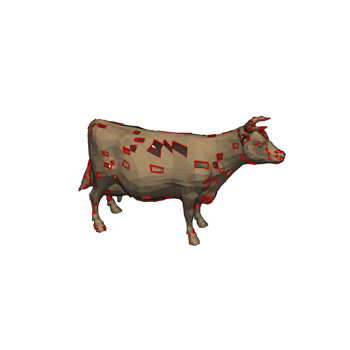
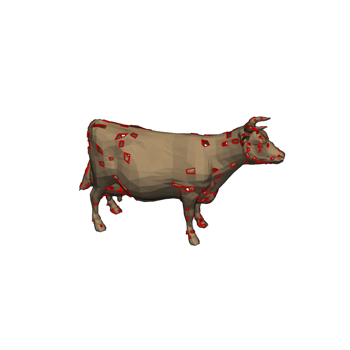
Update docs after building Travis build 86 of pyvista/pymeshfix
The docs were built from the branch 'master' against the commit
d8bb4e0ad93a92e9f489b860cbcf8b6f9eb6475c.

The Travis build that generated this commit is at
https://travis-ci.org/pyvista/pymeshfix/jobs/603597327.

The doctr command that was run is

    /home/travis/virtualenv/python3.7.1/bin/doctr deploy --built-docs ./docs/_build/html/ .

diff --git a/searchindex.js b/searchindex.js
@@ -1,1 +1,1 @@
-Search.setIndex({docnames:["api","examples/bunny","examples/cow","examples/index","examples/sg_execution_times","examples/torso","index"],envversion:{"sphinx.domains.c":1,"sphinx.domains.changeset":1,"sphinx.domains.cpp":1,"sphinx.domains.javascript":1,"sphinx.domains.math":2,"sphinx.domains.python":1,"sphinx.domains.rst":1,"sphinx.domains.std":1,sphinx:56},filenames:["api.rst","examples/bunny.rst","examples/cow.rst","examples/index.rst","examples/sg_execution_times.rst","examples/torso.rst","index.rst"],objects:{"pymeshfix.MeshFix":{extract_holes:[0,1,1,""],load_arrays:[0,1,1,""],mesh:[0,2,1,""],plot:[0,1,1,""],repair:[0,1,1,""],save:[0,1,1,""],write:[0,1,1,""]},pymeshfix:{MeshFix:[0,0,1,""],_meshfix:[0,3,0,"-"],meshfix:[0,3,0,"-"]}},objnames:{"0":["py","class","Python class"],"1":["py","method","Python method"],"2":["py","attribute","Python attribute"],"3":["py","module","Python module"]},objtypes:{"0":"py:class","1":"py:method","2":"py:attribute","3":"py:module"},terms:{"083e":5,"0x7f4788a01a08":2,"0x7f4788a01be8":5,"0x7f47892e4168":2,"320e":5,"442e":5,"446e":2,"624e":5,"637e":2,"680e":5,"696e":2,"701e":2,"720e":5,"760e":2,"998e":2,"case":6,"class":0,"default":0,"float":6,"import":[1,2,5,6],"new":0,"public":6,"return":[0,6],"true":[0,1,2,5],"while":6,FOR:6,One:6,The:6,There:6,Use:2,_meshfix:6,abov:6,absolut:5,access:[0,6],add:2,add_mesh:[1,2,5],addit:0,again:6,agreement:6,all:[0,6],allow:6,along:5,altern:6,ani:6,appi:5,approach:6,arg:0,argument:0,arrai:[0,2,5,6],ascii:0,assum:6,attempt:[0,6],atten:[0,6],author:6,award:6,base:[0,6],been:6,befor:0,begin:0,bell:6,better:6,binari:0,bool:0,both:0,bound:[2,5,6],boundari:[0,6],bring:6,bunni:[3,4],cad:6,camera:[1,2],camera_posit:[1,2,5],can:[0,6],cannot:6,cast:2,cell:[2,5],charact:0,check:6,cite:6,clean:[0,6],clean_from_arrai:6,clean_from_fil:6,click:[1,2,5],clone:6,close:6,cnr:6,coars:6,code:[1,2,5],color:[1,2,5],com:6,commerci:6,commun:6,complex:5,compon:[0,2,5,6],comput:6,contain:0,contract:6,control:6,copi:6,correct:6,could:6,cow:[3,4],cpo:[1,2,5],cpos_ear:5,creat:6,cython:[0,6],data:0,debug:0,defect:6,defin:1,degener:6,degeneraci:[1,2,5],deprec:[0,2],depth:[1,2,5],design:6,detail:6,digit:6,directli:6,disabl:0,disk:0,distribut:6,doi:6,download:[1,2,5],download_bunni:1,download_cow:2,download_torso:5,drive:6,dual:6,each:0,ear:5,eas:6,either:[0,6],element:6,emphas:5,enabl:0,enable_eye_dome_light:[1,2,5],ensur:5,even:6,exampl:[1,2,4,5],execut:4,extens:0,extract:[0,1,5],extract_geometri:2,extract_hol:[0,1,2,5],eye_dome_light:5,face:[0,6],fail:6,fals:0,faster:0,fclean:6,file:[0,4],filenam:0,filetyp:0,fill:6,fill_small_boundari:6,filter:5,fit:6,fix:[1,2,5],flaw:6,follow:[0,6],format:6,foundat:6,free:6,from:[0,1,2,5,6],ftype:0,full:[1,2,5],galleri:[1,2,3,5],gener:[1,2,3,5,6],git:6,github:6,gnu:6,gpl:6,hard:6,has:6,have:6,help:[1,2,5],here:[1,2,5,6],hole:[0,1,2,5,6],holei:[3,4],holy_cow:2,hope:6,how:6,http:6,idea:6,imati:6,impli:6,indic:0,infer:0,infil:6,inner_loop:6,inplac:0,input:6,instead:2,int32:6,interfac:0,intersect:[1,2,5,6],invert:2,ipynb:[1,2,5],isol:0,join:[0,6],join_closest_compon:6,joincomp:0,jupyt:[1,2,5],keyword:0,kwarg:0,largest:0,later:6,left:6,leverag:6,librari:6,licens:6,lightweight:6,line:0,line_width:[1,2,5],list:6,load:[0,6],load_arrai:[0,6],loadfil:6,locat:2,mai:[0,6],main:6,marco:[0,6],max_it:6,memori:6,merchant:6,mesh:[0,1,2,5,6],meshfix:[0,1,2,5,6],method:0,might:6,minut:[1,2,5],model:6,modifi:6,modul:[0,6],more:6,much:0,must:6,n_cell:2,nativ:6,ndarrai:0,nearbi:[0,6],necessari:6,need:5,nice:2,note:0,notebook:[1,2,5],numpi:[0,2,6],object:[0,6],occurr:6,one:0,open:0,option:[0,6],org:6,other:6,out:[1,2,5,6],outfil:6,outlin:[1,2,5],output:6,over:6,overridden:0,paper:6,paramet:0,part:[5,6],particular:6,patch:[1,2,5],percept:[1,2,5],perform:[0,6],perfrom:5,pip:6,pleas:6,plot:[0,1,2,5,6],plotter:[1,2,5],ply:[0,6],point:[0,2,5],polydata:[0,2,5],polygon:6,polyhedr:5,polyhedron:6,portabl:6,posit:1,present:6,print:[0,2,5,6],process:0,produc:6,program:6,proper:6,publish:6,purpos:6,pymeshfix:[0,1,2,5],pypi:6,python:[0,1,2,5,6],pytmesh:6,pyvista:[0,1,2,5,6],rand:2,random:2,raw:6,reach:6,read:6,readi:1,reason:6,redistribut:6,refer:6,region:6,remov:[0,2,5,6],remove_smallest_compon:0,render:[1,2],repair:[0,1,2,5,6],repres:6,requir:6,research:6,reserv:6,result:[2,6],return_arrai:6,right:6,root:2,run:[1,2,5,6],s00371:6,same:6,save:[0,6],save_fil:6,script:[1,2,5],second:[1,2,5],see:6,self:6,set:6,should:[0,6],show:[0,1,2,5],show_edg:5,show_hol:0,simpl:0,simpli:5,singl:6,singular:6,small:[2,5],softwar:6,solid:6,sort:6,sourc:[1,2,5,6],specif:6,specifi:0,speed:6,sphinx:[1,2,3,5],sphinx_gallery_thumbnail_numb:[1,2,5],springer:6,stl:0,str:0,string:0,subtl:5,surfac:[0,6],take:6,term:6,tessel:6,test:6,tetrahedr:0,than:0,thei:6,them:0,therefor:6,therein:6,thi:[0,5,6],three:0,threshold:2,thu:6,tight:5,time:[1,2,5],tin:6,tmesh:6,torso:[3,4],total:[1,2,4,5],tri_filt:[2,5],triangl:[0,5,6],triangul:2,triangular:0,txt:6,type:0,typic:6,unavail:6,under:6,understand:6,unless:0,unmodifi:6,updat:0,use:6,used:6,useful:6,user:6,uses:6,using:[0,6],vclean:6,verbos:[0,1,2,5],version:6,vertex:[0,6],view:6,visual:6,vtk:0,vtkinterfac:6,warn:2,warranti:6,water:5,watertight:6,where:[5,6],whistl:6,win:6,wish:6,with_vtk:6,within:6,wonder:6,work:6,wrap:0,wrapper:[0,6],write:[0,6],written:0,www:6,xyz:0,you:6,your:6},titles:["API Reference","Bunny","Holey Cow","Examples","Computation times","Torso","PyMeshFix"],titleterms:{algorithm:6,api:0,bunni:1,citat:6,complet:6,comput:4,copyright:6,cow:2,depend:6,easi:6,exampl:[3,6],holei:2,instal:6,polici:6,pymeshfix:6,refer:0,time:4,torso:5,vtk:6,without:6}})
+Search.setIndex({docnames:["api","examples/bunny","examples/cow","examples/index","examples/sg_execution_times","examples/torso","index"],envversion:{"sphinx.domains.c":1,"sphinx.domains.changeset":1,"sphinx.domains.cpp":1,"sphinx.domains.javascript":1,"sphinx.domains.math":2,"sphinx.domains.python":1,"sphinx.domains.rst":1,"sphinx.domains.std":1,sphinx:56},filenames:["api.rst","examples/bunny.rst","examples/cow.rst","examples/index.rst","examples/sg_execution_times.rst","examples/torso.rst","index.rst"],objects:{"pymeshfix.MeshFix":{extract_holes:[0,1,1,""],load_arrays:[0,1,1,""],mesh:[0,2,1,""],plot:[0,1,1,""],repair:[0,1,1,""],save:[0,1,1,""],write:[0,1,1,""]},pymeshfix:{MeshFix:[0,0,1,""],_meshfix:[0,3,0,"-"],meshfix:[0,3,0,"-"]}},objnames:{"0":["py","class","Python class"],"1":["py","method","Python method"],"2":["py","attribute","Python attribute"],"3":["py","module","Python module"]},objtypes:{"0":"py:class","1":"py:method","2":"py:attribute","3":"py:module"},terms:{"083e":5,"0x7efe1a8b08e8":5,"0x7efe1a8b0d08":2,"0x7efe1b14d048":2,"320e":5,"442e":5,"446e":2,"624e":5,"637e":2,"680e":5,"696e":2,"701e":2,"720e":5,"760e":2,"998e":2,"case":6,"class":0,"default":0,"float":6,"import":[1,2,5,6],"new":0,"public":6,"return":[0,6],"true":[0,1,2,5],"while":6,FOR:6,One:6,The:6,There:6,Use:2,_meshfix:6,abov:6,absolut:5,access:[0,6],add:2,add_mesh:[1,2,5],addit:0,again:6,agreement:6,all:[0,6],allow:6,along:5,altern:6,ani:6,appi:5,approach:6,arg:0,argument:0,arrai:[0,2,5,6],ascii:0,assum:6,attempt:[0,6],atten:[0,6],author:6,award:6,base:[0,6],been:6,befor:0,begin:0,bell:6,better:6,binari:0,bool:0,both:0,bound:[2,5,6],boundari:[0,6],bring:6,bunni:[3,4],cad:6,camera:[1,2],camera_posit:[1,2,5],can:[0,6],cannot:6,cast:2,cell:[2,5],charact:0,check:6,cite:6,clean:[0,6],clean_from_arrai:6,clean_from_fil:6,click:[1,2,5],clone:6,close:6,cnr:6,coars:6,code:[1,2,5],color:[1,2,5],com:6,commerci:6,commun:6,complex:5,compon:[0,5,6],comput:6,contain:0,contract:6,control:6,copi:6,correct:6,could:6,cow:[3,4],cpo:[1,2,5],cpos_ear:5,creat:6,cython:[0,6],data:0,debug:0,defect:6,defin:1,degener:6,degeneraci:[1,2,5],deprec:[0,2],depth:[1,2,5],design:6,detail:6,digit:6,directli:6,disabl:0,disk:0,distribut:6,doi:6,download:[1,2,5],download_bunni:1,download_cow:2,download_torso:5,drive:6,dual:6,each:0,ear:5,eas:6,either:[0,6],element:6,emphas:5,enabl:0,enable_eye_dome_light:[1,2,5],ensur:5,even:6,exampl:[1,2,4,5],execut:4,extens:0,extract:[0,1,5],extract_geometri:2,extract_hol:[0,1,2,5],eye_dome_light:5,face:[0,6],fail:6,fals:0,faster:0,fclean:6,file:[0,4],filenam:0,filetyp:0,fill:6,fill_small_boundari:6,filter:5,fit:6,fix:[1,2,5],flaw:6,follow:[0,6],format:6,foundat:6,free:6,from:[0,1,2,5,6],ftype:0,full:[1,2,5],galleri:[1,2,3,5],gener:[1,2,3,5,6],git:6,github:6,gnu:6,gpl:6,hard:6,has:6,have:6,help:[1,2,5],here:[1,2,5,6],hole:[0,1,2,5,6],holei:[3,4],holy_cow:2,hope:6,how:6,http:6,idea:6,imati:6,impli:6,indic:0,infer:0,infil:6,inner_loop:6,inplac:0,input:6,instead:2,int32:6,interfac:0,intersect:[1,2,5,6],invert:2,ipynb:[1,2,5],isol:0,join:[0,6],join_closest_compon:6,joincomp:0,jupyt:[1,2,5],keyword:0,kwarg:0,largest:0,later:6,left:6,leverag:6,librari:6,licens:6,lightweight:6,line:0,line_width:[1,2,5],list:6,load:[0,6],load_arrai:[0,6],loadfil:6,locat:2,mai:[0,6],main:6,marco:[0,6],max_it:6,memori:6,merchant:6,mesh:[0,1,2,5,6],meshfix:[0,1,2,5,6],method:0,might:6,minut:[1,2,5],model:6,modifi:6,modul:[0,6],more:6,much:0,must:6,n_cell:2,nativ:6,ndarrai:0,nearbi:[0,6],necessari:6,need:5,nice:2,note:0,notebook:[1,2,5],numpi:[0,2,6],object:[0,6],occurr:6,one:0,open:0,option:[0,6],org:6,other:6,out:[1,2,5,6],outfil:6,outlin:[1,2,5],output:6,over:6,overridden:0,paper:6,paramet:0,part:[5,6],particular:6,patch:[1,2,5],percept:[1,2,5],perform:[0,6],perfrom:5,pip:6,pleas:6,plot:[0,1,2,5,6],plotter:[1,2,5],ply:[0,6],point:[0,2,5],polydata:[0,2,5],polygon:6,polyhedr:5,polyhedron:6,portabl:6,posit:1,present:6,print:[0,2,5,6],process:0,produc:6,program:6,proper:6,publish:6,purpos:6,pymeshfix:[0,1,2,5],pypi:6,python:[0,1,2,5,6],pytmesh:6,pyvista:[0,1,2,5,6],rand:2,random:2,raw:6,reach:6,read:6,readi:1,reason:6,redistribut:6,refer:6,region:6,remov:[0,5,6],remove_smallest_compon:0,render:[1,2],repair:[0,1,2,5,6],repres:6,requir:6,research:6,reserv:6,result:[2,6],return_arrai:6,right:6,root:2,run:[1,2,5,6],s00371:6,same:6,save:[0,6],save_fil:6,script:[1,2,5],second:[1,2,5],see:6,self:6,set:6,should:[0,6],show:[0,1,2,5],show_edg:5,show_hol:0,simpl:0,simpli:5,singl:6,singular:6,small:5,softwar:6,solid:6,sort:6,sourc:[1,2,5,6],specif:6,specifi:0,speed:6,sphinx:[1,2,3,5],sphinx_gallery_thumbnail_numb:[1,2,5],springer:6,stl:0,str:0,string:0,subtl:5,surfac:[0,6],take:6,term:6,tessel:6,test:6,tetrahedr:0,than:0,thei:6,them:0,therefor:6,therein:6,thi:[0,5,6],three:0,threshold:2,thu:6,tight:5,time:[1,2,5],tin:6,tmesh:6,torso:[3,4],total:[1,2,4,5],tri_filt:[2,5],triangl:[0,5,6],triangul:2,triangular:0,txt:6,type:0,typic:6,unavail:6,under:6,understand:6,unless:0,unmodifi:6,updat:0,use:6,used:6,useful:6,user:6,uses:6,using:[0,6],vclean:6,verbos:[0,1,2,5],version:6,vertex:[0,6],view:6,visual:6,vtk:0,vtkinterfac:6,warn:2,warranti:6,water:5,watertight:6,where:[5,6],whistl:6,win:6,wish:6,with_vtk:6,within:6,wonder:6,work:6,wrap:0,wrapper:[0,6],write:[0,6],written:0,www:6,xyz:0,you:6,your:6},titles:["API Reference","Bunny","Holey Cow","Examples","Computation times","Torso","PyMeshFix"],titleterms:{algorithm:6,api:0,bunni:1,citat:6,complet:6,comput:4,copyright:6,cow:2,depend:6,easi:6,exampl:[3,6],holei:2,instal:6,polici:6,pymeshfix:6,refer:0,time:4,torso:5,vtk:6,without:6}})

diff --git a/examples/cow.html b/examples/cow.html
@@ -224,8 +224,8 @@
 </div>
 <p class="sphx-glr-script-out">Out:</p>
 <div class="sphx-glr-script-out highlight-none notranslate"><div class="highlight"><pre><span></span>WARNING:root:DEPRECATED: ``.tri_filter`` is deprecated. Use ``.triangulate`` instead.
-PolyData (0x7f4788a01a08)
-  N Cells:      5267
+PolyData (0x7efe1a8b0d08)
+  N Cells:      5257
   N Points:     2903
   X Bounds:     -4.446e+00, 5.998e+00
   Y Bounds:     -3.637e+00, 2.760e+00
@@ -256,9 +256,8 @@ PolyData (0x7f4788a01a08)
 </pre></div>
 </div>
 <p class="sphx-glr-script-out">Out:</p>
-<div class="sphx-glr-script-out highlight-none notranslate"><div class="highlight"><pre><span></span>Removed 2 small components
-Patching holes...
-Patched 187 holes
+<div class="sphx-glr-script-out highlight-none notranslate"><div class="highlight"><pre><span></span>Patching holes...
+Patched 193 holes
 Fixing degeneracies and intersections
 </pre></div>
 </div>
@@ -268,7 +267,7 @@ Fixing degeneracies and intersections
 </pre></div>
 </div>
 <p class="sphx-glr-script-out">Out:</p>
-<div class="sphx-glr-script-out highlight-none notranslate"><div class="highlight"><pre><span></span>PolyData (0x7f47892e4168)
+<div class="sphx-glr-script-out highlight-none notranslate"><div class="highlight"><pre><span></span>PolyData (0x7efe1b14d048)
   N Cells:      5446
   N Points:     2725
   X Bounds:     -3.696e+00, 5.998e+00
@@ -281,7 +280,7 @@ Fixing degeneracies and intersections
 </pre></div>
 </div>
 <img alt="../_images/sphx_glr_cow_002.png" class="sphx-glr-single-img" src="../_images/sphx_glr_cow_002.png" />
-<p class="sphx-glr-timing"><strong>Total running time of the script:</strong> ( 0 minutes  8.532 seconds)</p>
+<p class="sphx-glr-timing"><strong>Total running time of the script:</strong> ( 0 minutes  8.654 seconds)</p>
 <div class="sphx-glr-footer class sphx-glr-footer-example docutils container" id="sphx-glr-download-examples-cow-py">
 <div class="sphx-glr-download docutils container">
 <p><a class="reference download internal" download="" href="../_downloads/700f1bf357ea69088c0a34b0aa306d26/cow.py"><code class="xref download docutils literal notranslate"><span class="pre">Download</span> <span class="pre">Python</span> <span class="pre">source</span> <span class="pre">code:</span> <span class="pre">cow.py</span></code></a></p>

diff --git a/examples/sg_execution_times.html b/examples/sg_execution_times.html
@@ -193,11 +193,11 @@
             
   <div class="section" id="computation-times">
 <span id="sphx-glr-examples-sg-execution-times"></span><h1>Computation times<a class="headerlink" href="#computation-times" title="Permalink to this headline">¶</a></h1>
-<p><strong>00:55.785</strong> total execution time for <strong>examples</strong> files:</p>
+<p><strong>00:56.056</strong> total execution time for <strong>examples</strong> files:</p>
 <ul class="simple">
-<li><p><strong>00:27.840</strong>: <a class="reference internal" href="torso.html#sphx-glr-examples-torso-py"><span class="std std-ref">Torso</span></a> (<code class="docutils literal notranslate"><span class="pre">torso.py</span></code>)</p></li>
-<li><p><strong>00:19.414</strong>: <a class="reference internal" href="bunny.html#sphx-glr-examples-bunny-py"><span class="std std-ref">Bunny</span></a> (<code class="docutils literal notranslate"><span class="pre">bunny.py</span></code>)</p></li>
-<li><p><strong>00:08.532</strong>: <a class="reference internal" href="cow.html#sphx-glr-examples-cow-py"><span class="std std-ref">Holey Cow</span></a> (<code class="docutils literal notranslate"><span class="pre">cow.py</span></code>)</p></li>
+<li><p><strong>00:28.045</strong>: <a class="reference internal" href="torso.html#sphx-glr-examples-torso-py"><span class="std std-ref">Torso</span></a> (<code class="docutils literal notranslate"><span class="pre">torso.py</span></code>)</p></li>
+<li><p><strong>00:19.356</strong>: <a class="reference internal" href="bunny.html#sphx-glr-examples-bunny-py"><span class="std std-ref">Bunny</span></a> (<code class="docutils literal notranslate"><span class="pre">bunny.py</span></code>)</p></li>
+<li><p><strong>00:08.654</strong>: <a class="reference internal" href="cow.html#sphx-glr-examples-cow-py"><span class="std std-ref">Holey Cow</span></a> (<code class="docutils literal notranslate"><span class="pre">cow.py</span></code>)</p></li>
 </ul>
 </div>
 

diff --git a/examples/torso.html b/examples/torso.html
@@ -219,7 +219,7 @@ parts of the mesh</p>
 </pre></div>
 </div>
 <p class="sphx-glr-script-out">Out:</p>
-<div class="sphx-glr-script-out highlight-none notranslate"><div class="highlight"><pre><span></span>PolyData (0x7f4788a01be8)
+<div class="sphx-glr-script-out highlight-none notranslate"><div class="highlight"><pre><span></span>PolyData (0x7efe1a8b08e8)
   N Cells:      12448
   N Points:     12015
   X Bounds:     -1.680e+02, 1.720e+02
@@ -282,7 +282,7 @@ Fixing degeneracies and intersections
 </pre></div>
 </div>
 <img alt="../_images/sphx_glr_torso_004.png" class="sphx-glr-single-img" src="../_images/sphx_glr_torso_004.png" />
-<p class="sphx-glr-timing"><strong>Total running time of the script:</strong> ( 0 minutes  27.840 seconds)</p>
+<p class="sphx-glr-timing"><strong>Total running time of the script:</strong> ( 0 minutes  28.045 seconds)</p>
 <div class="sphx-glr-footer class sphx-glr-footer-example docutils container" id="sphx-glr-download-examples-torso-py">
 <div class="sphx-glr-download docutils container">
 <p><a class="reference download internal" download="" href="../_downloads/988781b05954ec5068adbfe7a980b827/torso.py"><code class="xref download docutils literal notranslate"><span class="pre">Download</span> <span class="pre">Python</span> <span class="pre">source</span> <span class="pre">code:</span> <span class="pre">torso.py</span></code></a></p>

diff --git a/examples/bunny.html b/examples/bunny.html
@@ -255,7 +255,7 @@ Fixing degeneracies and intersections
 </pre></div>
 </div>
 <img alt="../_images/sphx_glr_bunny_003.png" class="sphx-glr-single-img" src="../_images/sphx_glr_bunny_003.png" />
-<p class="sphx-glr-timing"><strong>Total running time of the script:</strong> ( 0 minutes  19.414 seconds)</p>
+<p class="sphx-glr-timing"><strong>Total running time of the script:</strong> ( 0 minutes  19.356 seconds)</p>
 <div class="sphx-glr-footer class sphx-glr-footer-example docutils container" id="sphx-glr-download-examples-bunny-py">
 <div class="sphx-glr-download docutils container">
 <p><a class="reference download internal" download="" href="../_downloads/81a10a6450959c49a589aa8cee630836/bunny.py"><code class="xref download docutils literal notranslate"><span class="pre">Download</span> <span class="pre">Python</span> <span class="pre">source</span> <span class="pre">code:</span> <span class="pre">bunny.py</span></code></a></p>
